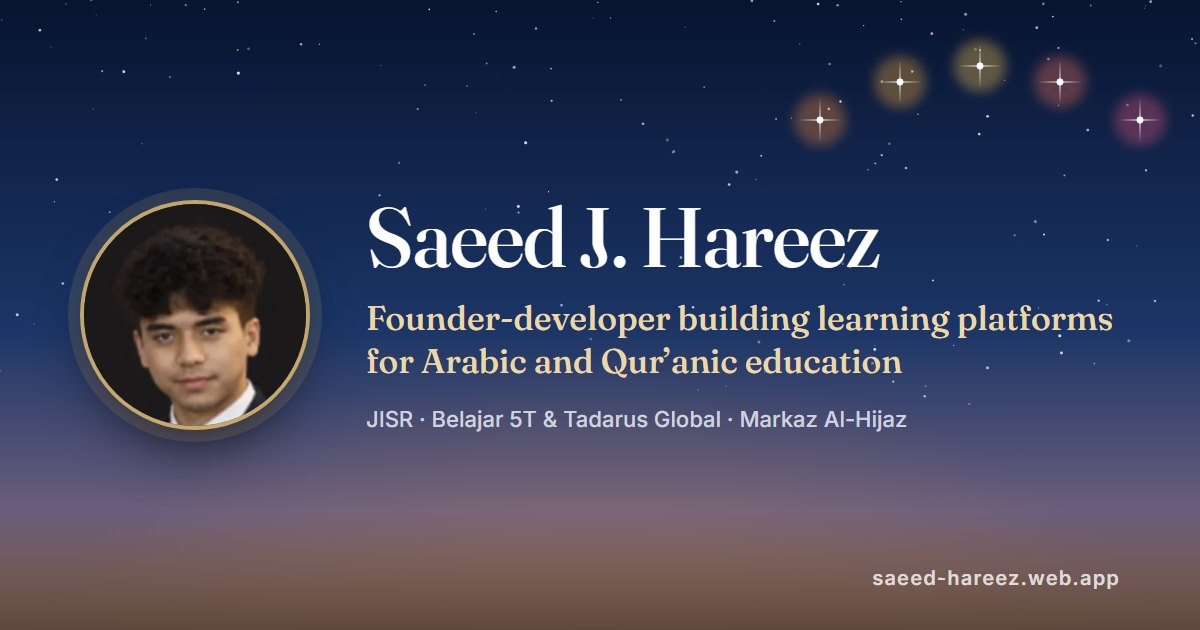
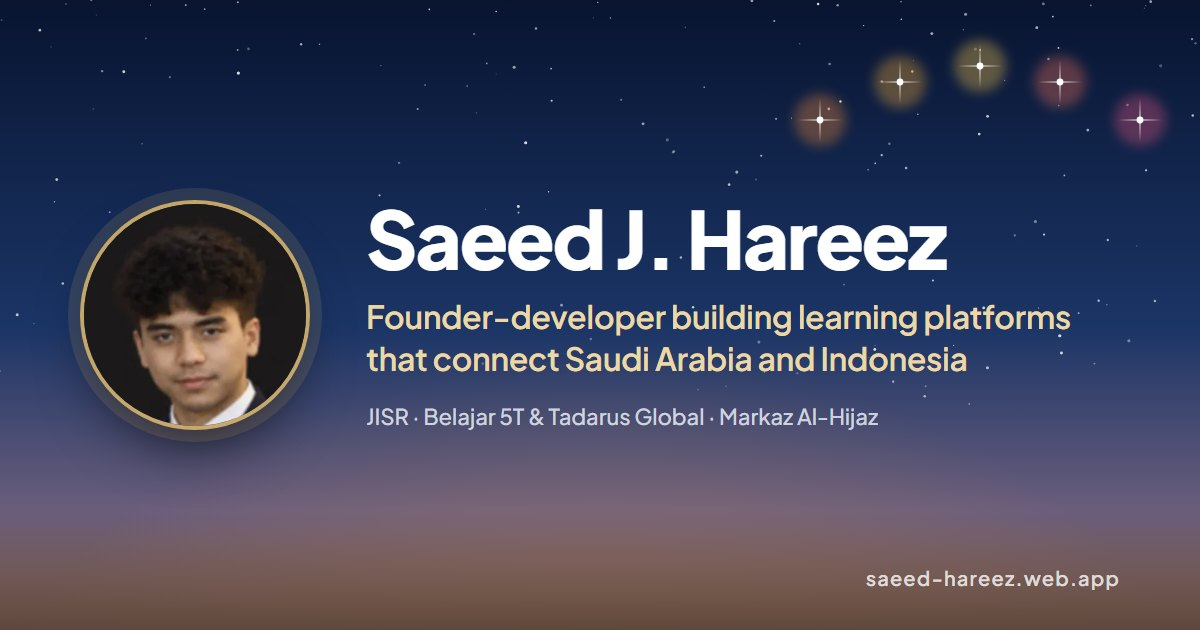
Switch to Plus Jakarta Sans and lead with Saudi-Indonesia education
- One typeface throughout (Plus Jakarta Sans); the certificate demo
  keeps a classic serif
- Hero, Tadarus copy, page descriptions and share card now lead with
  learning platforms that connect Saudi Arabia and Indonesia
- Globe marks only Makkah as the starting point; certificate demo
  programme is Bahasa Arab Dasar
- Fewer em dashes in the copy

diff --git a/src/index.css b/src/index.css
@@ -8,8 +8,8 @@
   --gold-soft: #e9d3a1;
   --text: #e8ecf5;
   --muted: #a3aec6;
-  --serif: 'Fraunces', Georgia, 'Times New Roman', serif;
-  --sans: 'Inter', system-ui, -apple-system, 'Segoe UI', Roboto, sans-serif;
+  --sans: 'Plus Jakarta Sans', system-ui, -apple-system, 'Segoe UI', Roboto, sans-serif;
+  --serif: var(--sans); /* one family throughout; the certificate demo keeps its own serif */
   --wrap: 1120px;
   color-scheme: dark;
 }
@@ -27,7 +27,7 @@ body {
   overflow-x: hidden;
 }
 
-h1, h2, h3 { font-family: var(--serif); font-weight: 500; line-height: 1.15; margin: 0; }
+h1, h2, h3 { font-family: var(--sans); font-weight: 700; letter-spacing: -0.025em; line-height: 1.12; margin: 0; }
 h2 { font-size: clamp(1.8rem, 4vw, 2.6rem); color: #fff; }
 h3 { font-size: clamp(1.6rem, 3.2vw, 2.2rem); color: #fff; }
 h4 {
@@ -85,7 +85,7 @@ ul { margin: 0; padding: 0; list-style: none; }
   text-shadow: 0 2px 30px rgba(5, 11, 28, 0.35);
 }
 .lede {
-  font-family: var(--serif); font-size: clamp(1.25rem, 3vw, 1.75rem); line-height: 1.35;
+  font-family: var(--sans); font-weight: 500; letter-spacing: -0.01em; font-size: clamp(1.2rem, 2.8vw, 1.6rem); line-height: 1.4;
   color: var(--gold-soft); max-width: 30ch; margin: 18px 0 14px;
 }
 .sub { color: rgba(232, 236, 245, 0.85); max-width: 56ch; margin-bottom: 32px; font-size: 0.98rem; }
@@ -114,7 +114,7 @@ main { padding: 0 20px; }
   display: flex; align-items: baseline; gap: 14px; margin: 28px 0 4px;
   padding: 18px 22px; border-radius: 14px; background: var(--navy-900); border: 1px solid var(--line);
 }
-.stat-value { font: 500 3rem/1 var(--serif); color: var(--gold); }
+.stat-value { font: 800 2.8rem/1 var(--sans); letter-spacing: -0.03em; color: var(--gold); }
 .stat-label { color: var(--text); font-size: 0.95rem; line-height: 1.4; }
 .ticks li { position: relative; padding-left: 22px; margin: 6px 0; color: #cfd6e6; }
 .ticks li::before {
@@ -142,7 +142,7 @@ main { padding: 0 20px; }
   aspect-ratio: 16 / 10; display: grid; place-content: center; text-align: center; gap: 6px;
   background: linear-gradient(160deg, var(--navy-700), var(--navy-900) 70%);
 }
-.frame-body strong { font: 500 2rem var(--serif); color: var(--gold-soft); }
+.frame-body strong { font: 700 1.8rem var(--sans); color: var(--gold-soft); }
 .frame-body small { color: var(--muted); }
 
 .small-builds { display: grid; grid-template-columns: repeat(auto-fit, minmax(280px, 1fr)); gap: 20px; padding-top: 24px; border-top: 1px solid var(--line); margin-top: 8px; }
@@ -166,7 +166,7 @@ main { padding: 0 20px; }
 }
 .partner .logo img { max-width: 100%; max-height: 100%; object-fit: contain; }
 .partner .logo span { font: 700 1.05rem/1.15 'Amiri', serif; color: #0b2244; text-align: center; }
-.partner strong { font: 500 0.98rem/1.25 var(--serif); color: #fff; }
+.partner strong { font: 700 0.95rem/1.3 var(--sans); color: #fff; }
 .partner small { font-size: 0.72rem; color: var(--muted); letter-spacing: 0.04em; }
 .link { position: relative; height: 76px; display: grid; place-items: center; }
 .link::before { content: ''; position: absolute; left: -6px; right: -6px; top: 50%; height: 1px; background: linear-gradient(90deg, transparent, var(--gold), transparent); }

diff --git a/src/content.js b/src/content.js
@@ -3,7 +3,7 @@
 
 export const profile = {
   name: 'Saeed J. Hareez',
-  line: 'Founder-developer building learning platforms for Arabic and Qur’anic education.',
+  line: 'Founder-developer building learning platforms that connect Saudi Arabia and Indonesia.',
   sub: 'Co-founder of JISR · Web developer & international coordinator at Markaz Tadarus · Jakarta, Indonesia',
   email: 'saeedhareez@gmail.com',
   linkedin: 'https://www.linkedin.com/in/saeed-hareez-398685288',
@@ -15,7 +15,7 @@ export const projects = [
     id: 'jisr',
     flag: 'Flagship · Co-founder',
     name: 'JISR',
-    tagline: 'Arabic learning platform for Indonesians',
+    tagline: 'An online Arabic programme for Indonesians',
     url: 'https://ar-jisr.web.app',
     host: 'ar-jisr.web.app',
     stat: { value: '140+', label: 'active students in the first cohort' },
@@ -33,15 +33,15 @@ export const projects = [
     id: 'tadarus',
     flag: 'Markaz Tadarus Indonesia',
     name: 'Belajar 5T & Tadarus Global',
-    tagline: 'Qur’an teachers learn in five steps — and the globe shows where',
+    tagline: 'Teacher training in Indonesia, followed live from Saudi Arabia',
     url: 'https://markaztadarus.com',
     host: 'markaztadarus.com',
-    stat: { value: '5T', label: 'steps per surah, one star each' },
-    problem: 'Qur’an teachers across many schools needed one place to learn and be followed up.',
+    stat: { value: '5', label: 'steps per lesson, a star for each one finished' },
+    problem: 'Teachers in many schools needed one place to learn, and the programme team abroad needed to see their progress as it happens.',
     built: [
-      'Each surah in five steps, with quizzes and ayah-by-ayah recitation',
-      'Schools join by code; admins approve and follow progress',
-      'A live globe of every programme, joined to Makkah',
+      'A five-step learning path for every lesson, with quizzes and audio',
+      'Schools join by code; admins approve teachers and follow progress',
+      'A live globe of every programme and who is learning right now',
     ],
     stack: ['React', 'Mantine', 'Firebase', 'd3-geo', 'PWA'],
     demo: 'globe',
@@ -54,12 +54,12 @@ export const projects = [
     url: 'https://markazalhijaz.org',
     host: 'markazalhijaz.org',
     stat: { value: '1 scan', label: 'to prove a printed certificate is genuine' },
-    problem: 'The foundation issues many certificates — and whoever receives one needs to know it is real.',
+    problem: 'The foundation issues many certificates, and whoever receives one needs to know it is real.',
     built: [
       'Certificates issued in bulk from Excel, with signatures, stamps and a QR code that is checked live',
       'A form builder with quizzes, file uploads and printable PDF answers',
       'News, donations, short links and a globe of programmes',
-      'Admin roles, change history and a recycle bin — in Indonesian, English and Arabic',
+      'Admin roles, change history and a recycle bin, in Indonesian, English and Arabic',
     ],
     stack: ['Next.js', 'next-intl', 'Mantine', 'Firebase'],
     demo: 'cert',

diff --git a/index.html b/index.html
@@ -4,24 +4,24 @@
     <meta charset="UTF-8" />
     <meta name="viewport" content="width=device-width, initial-scale=1.0" />
     <title>Saeed J. Hareez — Founder-developer</title>
-    <meta name="description" content="Saeed J. Hareez — co-founder of JISR and sole developer of learning platforms for Arabic and Qur'anic education, based in Jakarta." />
+    <meta name="description" content="Saeed J. Hareez, founder-developer of learning platforms that connect Saudi Arabia and Indonesia. Based in Jakarta." />
     <meta name="theme-color" content="#050b1c" />
     <meta property="og:title" content="Saeed J. Hareez — Founder-developer" />
-    <meta property="og:description" content="Learning platforms for Arabic and Qur'anic education: JISR, Belajar 5T & Tadarus Global, Markaz Al-Hijaz." />
+    <meta property="og:description" content="Learning platforms that connect Saudi Arabia and Indonesia: JISR, Belajar 5T & Tadarus Global, Markaz Al-Hijaz." />
     <meta property="og:type" content="website" />
     <meta property="og:url" content="https://saeed-hareez.web.app/" />
     <meta property="og:site_name" content="Saeed J. Hareez" />
     <meta property="og:image" content="https://saeed-hareez.web.app/og.jpg" />
     <meta property="og:image:width" content="1200" />
     <meta property="og:image:height" content="630" />
-    <meta property="og:image:alt" content="Saeed J. Hareez — founder-developer building learning platforms for Arabic and Qur'anic education" />
+    <meta property="og:image:alt" content="Saeed J. Hareez, founder-developer building learning platforms that connect Saudi Arabia and Indonesia" />
     <meta name="twitter:card" content="summary_large_image" />
     <meta name="twitter:image" content="https://saeed-hareez.web.app/og.jpg" />
     <link rel="canonical" href="https://saeed-hareez.web.app/" />
     <link rel="icon" type="image/svg+xml" href="/favicon.svg" />
     <link rel="preconnect" href="https://fonts.googleapis.com" />
     <link rel="preconnect" href="https://fonts.gstatic.com" crossorigin />
-    <link href="https://fonts.googleapis.com/css2?family=Amiri:wght@700&family=Fraunces:opsz,wght@9..144,400;9..144,500&family=Inter:wght@400;500;600&display=swap" rel="stylesheet" />
+    <link href="https://fonts.googleapis.com/css2?family=Amiri:wght@700&family=Plus+Jakarta+Sans:wght@400;500;600;700;800&display=swap" rel="stylesheet" />
   </head>
   <body>
     <div id="root"></div>

diff --git a/src/demos/TadarusGlobe.jsx b/src/demos/TadarusGlobe.jsx
@@ -14,8 +14,6 @@ const ORIGIN = 'Saudi Arabia'
 const PROGRAMS = { Indonesia: [106.8456, -6.2088] } // country → where the line lands (Jakarta)
 const HOLY = [
   { name: 'Makkah', at: [39.8262, 21.4225], main: true },
-  { name: 'Madinah', at: [39.6111, 24.4686] },
-  { name: 'Al-Quds', at: [35.2354, 31.7781] },
 ]
 const MAKKAH = HOLY[0].at
 const LEARNER = [106.8456, -6.2088] // a teacher studying now in Jakarta (demo)
@@ -57,8 +55,8 @@ function subsolarPoint(date = new Date()) {
 
 function describe(name) {
   if (!name) return null
-  if (name === ORIGIN) return { name, kind: 'origin', text: 'Where Tadarus began — Makkah al-Mukarramah.' }
-  if (PROGRAMS[name]) return { name, kind: 'program', text: 'Tadarus programmes run here, joined to Makkah.' }
+  if (name === ORIGIN) return { name, kind: 'origin', text: 'Where the programme began: Makkah, Saudi Arabia.' }
+  if (PROGRAMS[name]) return { name, kind: 'program', text: 'Programmes run here, followed live from Saudi Arabia.' }
   return { name, kind: 'none', text: 'No Tadarus programme here yet.' }
 }
 
@@ -332,8 +330,8 @@ export default function TadarusGlobe() {
         )}
       </div>
       <ul className="tg-legend">
-        <li><i className="origin" /> Where Tadarus began</li>
-        <li><i className="program" /> Tadarus programmes</li>
+        <li><i className="origin" /> Where it began</li>
+        <li><i className="program" /> Programmes</li>
         <li><i className="learner" /> Studying now</li>
         <li><i className="night" /> Night right now</li>
       </ul>

diff --git a/src/demos/CertVerify.css b/src/demos/CertVerify.css
@@ -21,9 +21,9 @@
   padding: 7% 5% 4%; color: #2b2410;
 }
 .cv .cv-org { font: 600 clamp(7px, 1vw, 10px) var(--sans); letter-spacing: 0.18em; text-transform: uppercase; color: #8a6d24; }
-.cv .cv-title { font: 500 clamp(16px, 2.6vw, 26px)/1.1 var(--serif); color: #1f2a44; margin: 1% 0 2%; }
+.cv .cv-title { font: 500 clamp(16px, 2.6vw, 26px)/1.1 Georgia, 'Times New Roman', serif; color: #1f2a44; margin: 1% 0 2%; }
 .cv .cv-small { font-size: clamp(6px, 0.8vw, 9px); color: #6b6250; }
-.cv .cv-name { font: 600 clamp(12px, 1.8vw, 18px) var(--serif); color: #1f2a44; margin: 1% 0 2%; border-bottom: 1px solid #d8c69a; padding: 0 8% 1%; }
+.cv .cv-name { font: 600 clamp(12px, 1.8vw, 18px) Georgia, 'Times New Roman', serif; color: #1f2a44; margin: 1% 0 2%; border-bottom: 1px solid #d8c69a; padding: 0 8% 1%; }
 .cv .cv-prog { font: 600 clamp(8px, 1.1vw, 11px) var(--sans); color: #8a6d24; }
 .cv-foot { width: 100%; display: flex; align-items: flex-end; justify-content: space-between; margin-top: auto; }
 .cv-sign { display: grid; justify-items: center; width: 28%; }

diff --git a/src/demos/CertVerify.jsx b/src/demos/CertVerify.jsx
@@ -79,7 +79,7 @@ export default function CertVerify() {
           <p className="cv-small">diberikan kepada</p>
           <p className="cv-name">Fulan bin Fulan</p>
           <p className="cv-small">atas kelulusan program</p>
-          <p className="cv-prog">Tahsin Al-Qur’an</p>
+          <p className="cv-prog">Bahasa Arab Dasar</p>
           <div className="cv-foot">
             <div className="cv-sign">
               <svg viewBox="0 0 60 20" aria-hidden="true"><path d="M2 14 C10 2, 14 18, 22 9 S34 4, 38 12 S50 16, 58 6" /></svg>
@@ -125,7 +125,7 @@ export default function CertVerify() {
               <p className="cv-ok-sub">Terverifikasi · Markaz Al-Hijaz</p>
               <dl>
                 <dt>Nama</dt><dd>Fulan bin Fulan</dd>
-                <dt>Program</dt><dd>Tahsin Al-Qur’an</dd>
+                <dt>Program</dt><dd>Bahasa Arab Dasar</dd>
                 <dt>Kode</dt><dd>{CODE}</dd>
               </dl>
               <p className="cv-live"><i /> Dicek langsung dari database</p>

diff --git a/src/App.jsx b/src/App.jsx
@@ -123,7 +123,7 @@ export default function App() {
         <section id="work" className="section">
           <h2>Selected work</h2>
           <p className="section-lede">
-            I design, build and run every one of these myself — from the database rules to the
+            I design, build and run every one of these myself, from the database rules to the
             last right-to-left Arabic label.
           </p>
           {projects.map((p, i) => <Project key={p.id} p={p} index={i} />)}
